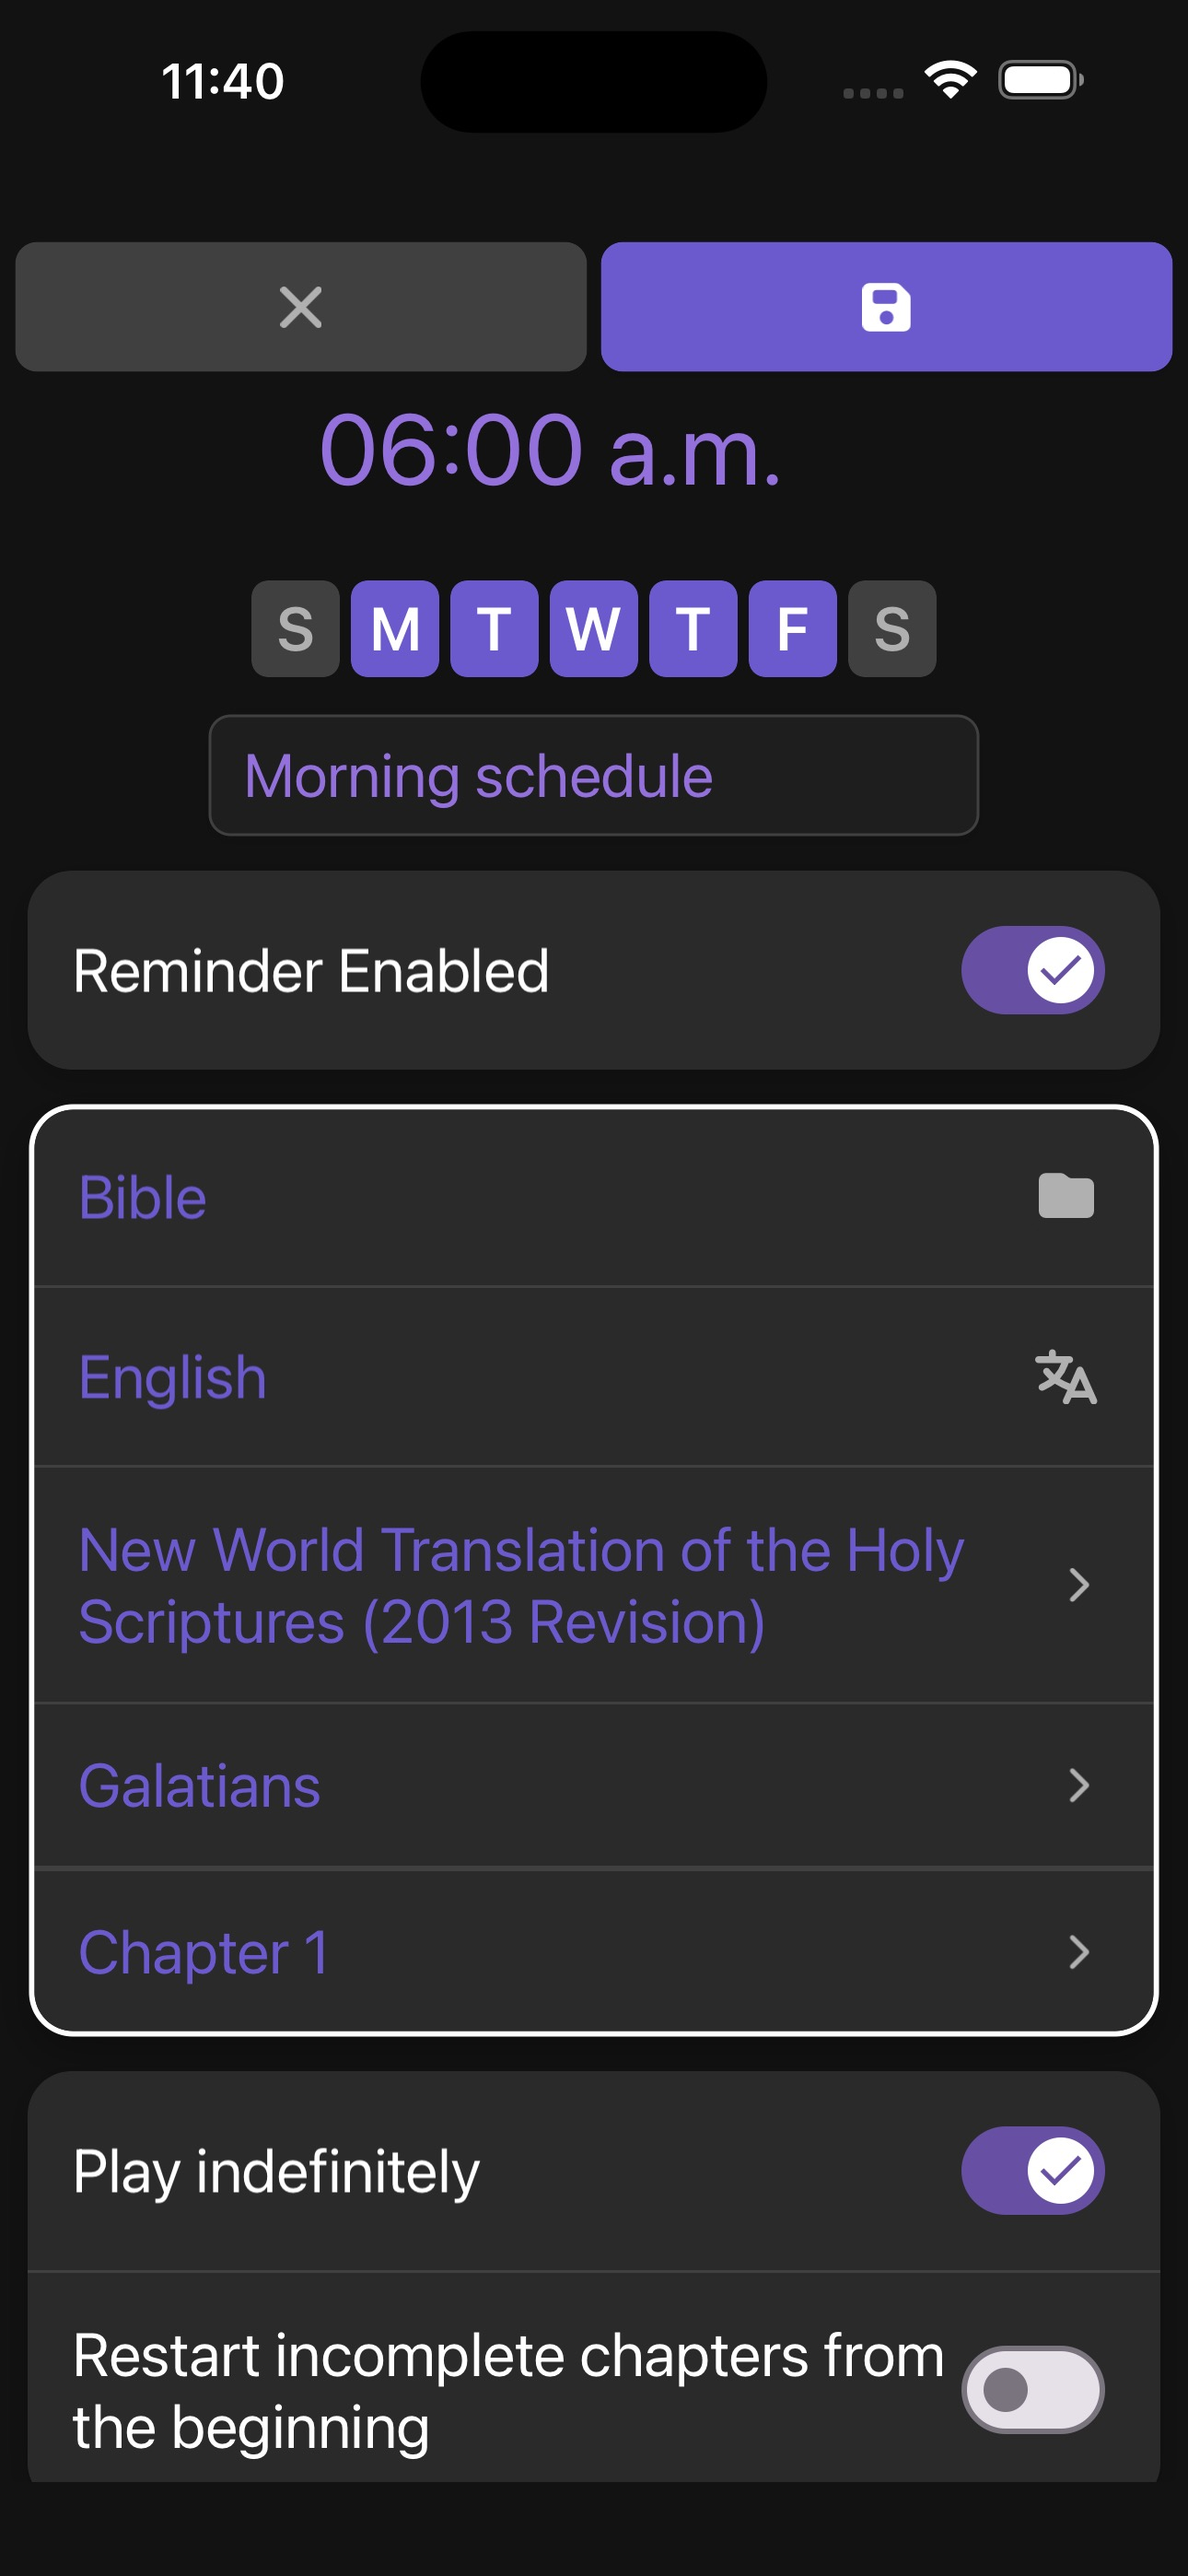
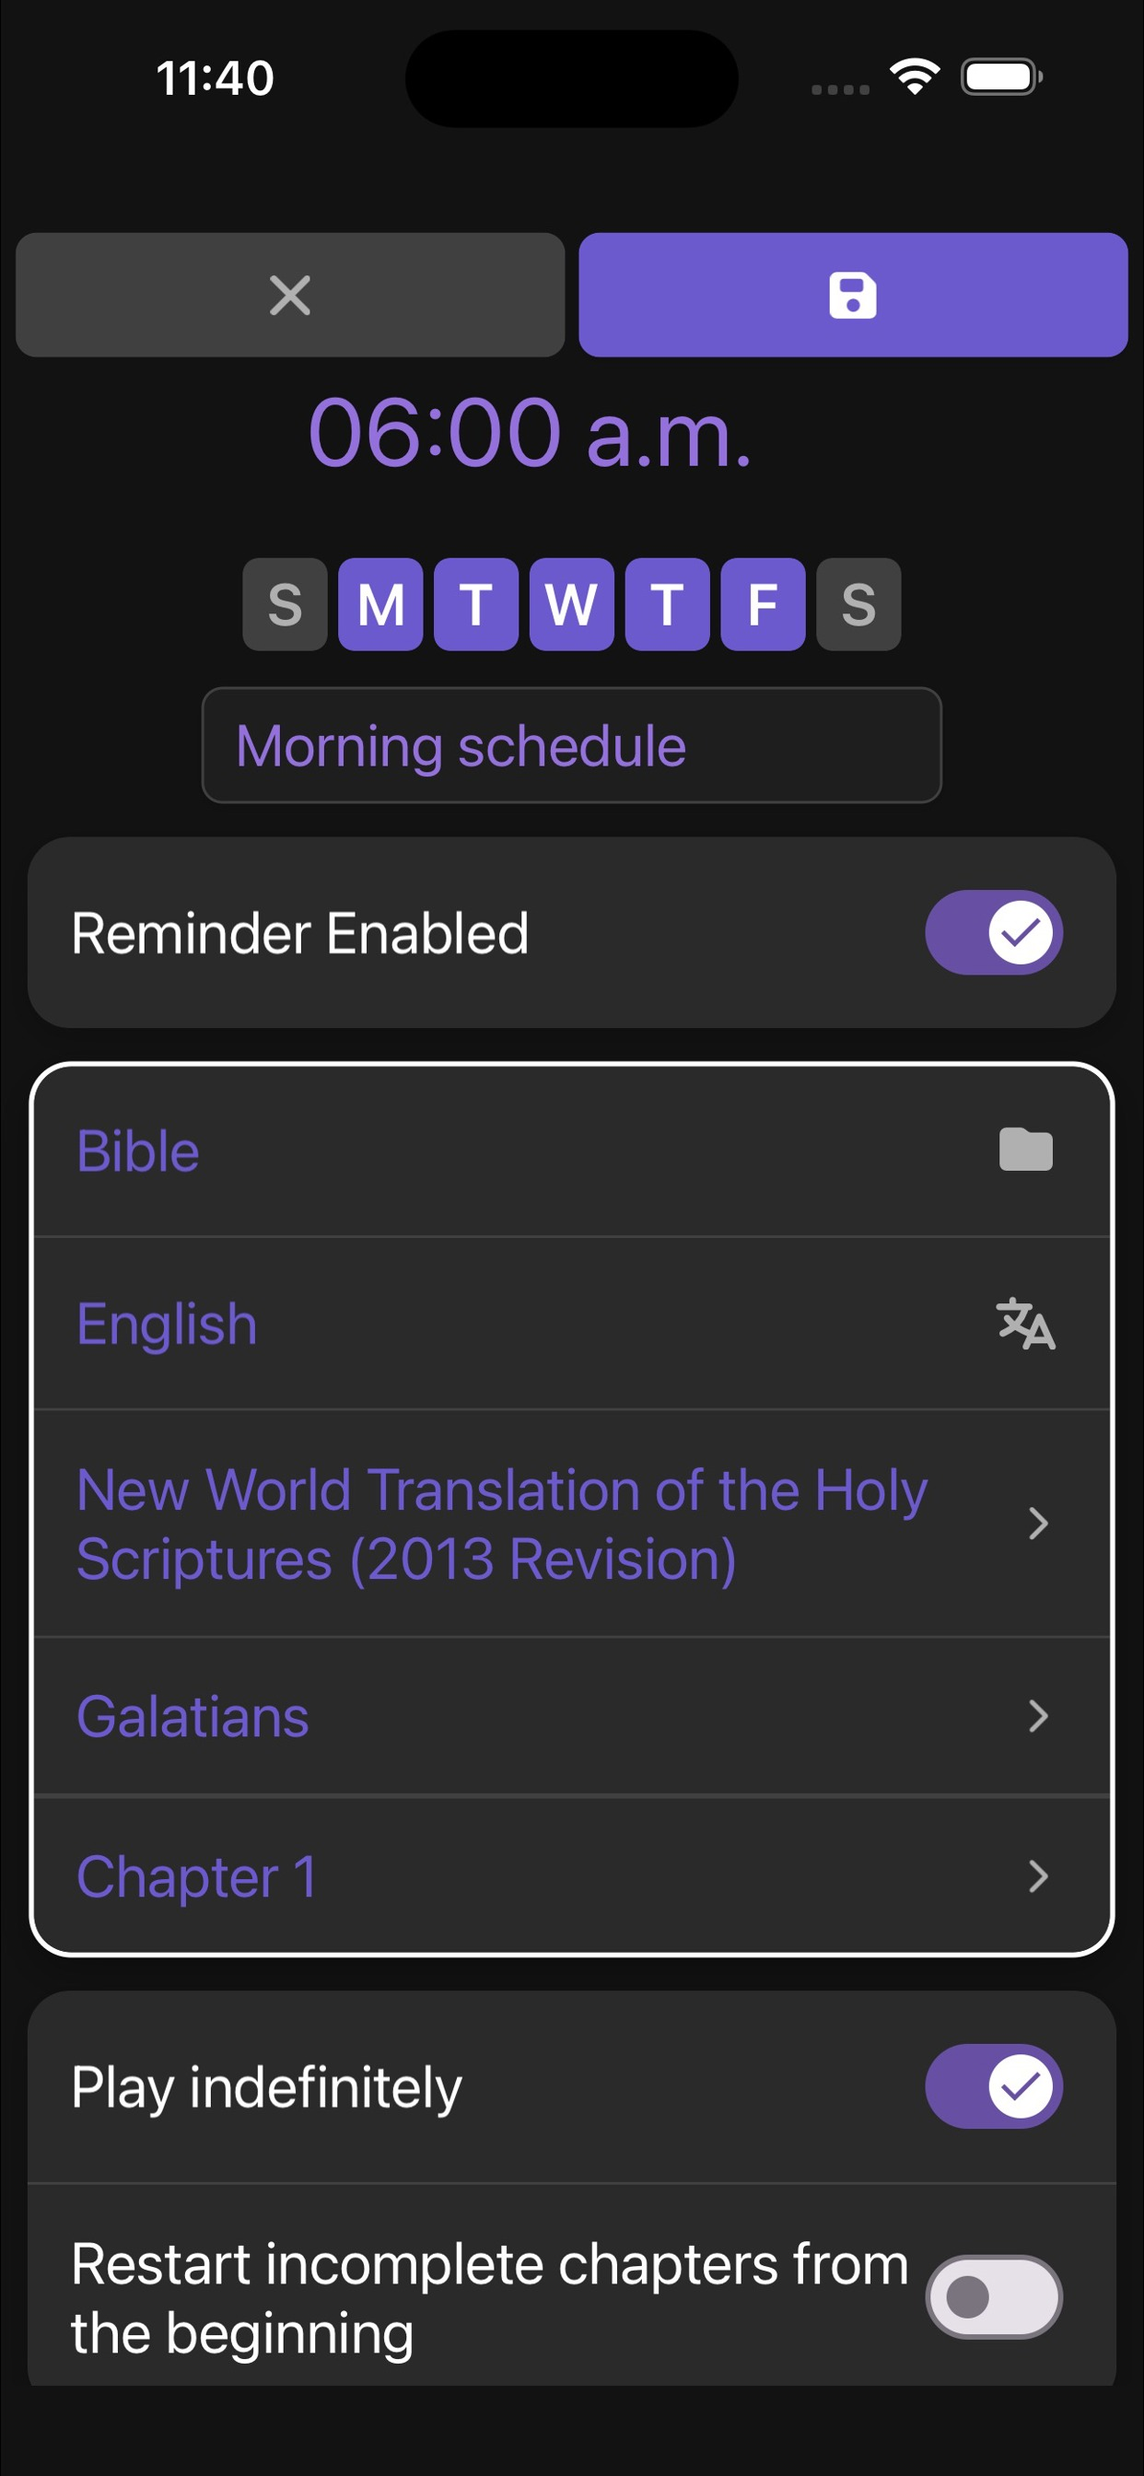
Fix iOS screenshot sizes for store listing

diff --git a/.tools/Bible.Alarm.IosScreenshotResizer/Program.cs b/.tools/Bible.Alarm.IosScreenshotResizer/Program.cs
@@ -1,0 +1,101 @@
+#nullable enable
+
+using System;
+using System.Collections.Generic;
+using System.IO;
+using System.Linq;
+using SixLabors.ImageSharp;
+using SixLabors.ImageSharp.Processing;
+
+namespace Bible.Alarm.IosScreenshotResizer;
+
+/// <summary>
+/// Resizes images under docs/screenshots/iOS to Apple App Store required dimensions.
+/// </summary>
+class Program
+{
+    private static readonly (int W, int H)[] IPhoneSizes =
+    {
+        (1242, 2688), (2688, 1242),
+        (1284, 2778), (2778, 1284),
+    };
+
+    private static readonly (int W, int H)[] IPadSizes =
+    {
+        (2064, 2752), (2752, 2064),
+        (2048, 2732), (2732, 2048),
+    };
+
+    static int Main(string[] args)
+    {
+        var folder = args.Length > 0 ? args[0].Trim() : null;
+        if (string.IsNullOrEmpty(folder) || !Directory.Exists(folder))
+        {
+            Console.Error.WriteLine("Usage: Bible.Alarm.IosScreenshotResizer <path-to-iOS-screenshots-folder>");
+            Console.Error.WriteLine("Example: Bible.Alarm.IosScreenshotResizer \"C:\\Work\\Repositories\\bible-alarm\\docs\\screenshots\\iOS\"");
+            return 1;
+        }
+
+        var extensions = new HashSet<string>(StringComparer.OrdinalIgnoreCase) { ".jpg", ".jpeg", ".png" };
+        var files = Directory.EnumerateFiles(folder, "*.*", SearchOption.AllDirectories)
+            .Where(f => extensions.Contains(Path.GetExtension(f)))
+            .ToList();
+
+        if (files.Count == 0)
+        {
+            Console.WriteLine("No .jpg/.jpeg/.png files found under: " + folder);
+            return 0;
+        }
+
+        Console.WriteLine($"Found {files.Count} image(s). Resizing to closest App Store dimensions...");
+        var ok = 0;
+        foreach (var path in files)
+        {
+            try
+            {
+                ResizeToClosestStoreSize(path, folder);
+                ok++;
+                Console.WriteLine($"  OK: {Path.GetFileName(path)}");
+            }
+            catch (Exception ex)
+            {
+                Console.WriteLine($"  FAIL: {path} - {ex.Message}");
+            }
+        }
+
+        Console.WriteLine($"Done. Processed {ok}/{files.Count} images.");
+        return ok == files.Count ? 0 : 1;
+    }
+
+    static void ResizeToClosestStoreSize(string imagePath, string rootFolder)
+    {
+        var relative = Path.GetRelativePath(rootFolder, imagePath);
+        var useIpad = relative.StartsWith("tablet", StringComparison.OrdinalIgnoreCase);
+        var targets = useIpad ? IPadSizes : IPhoneSizes;
+
+        using var image = Image.Load(imagePath);
+        var (w, h) = (image.Width, image.Height);
+        var aspect = (double)w / h;
+
+        var best = targets[0];
+        var bestDiff = double.MaxValue;
+        foreach (var t in targets)
+        {
+            var targetAspect = (double)t.W / t.H;
+            var diff = Math.Abs(aspect - targetAspect);
+            if (diff < bestDiff)
+            {
+                bestDiff = diff;
+                best = t;
+            }
+        }
+
+        image.Mutate(x => x.Resize(new ResizeOptions
+        {
+            Size = new Size(best.W, best.H),
+            Mode = ResizeMode.Pad,
+        }));
+
+        image.Save(imagePath);
+    }
+}

diff --git a/docs/ios-store-description.md b/docs/ios-store-description.md
@@ -6,16 +6,28 @@ Language list source: media index DB (Bible category). To refresh: `dotnet run -
 
 ---
 
-## Promotional Text (170 characters max)
+## Promotional Text (170 characters max) — *optional*
 
-Appears at the top of the description. You can change it without submitting a new version.
+Appears at the top of the description. You can change it without submitting a new version. **You can leave this blank**; Apple does not require it.
+
+**Recommended (benefit-led):**
+
+```
+Wake up to the Bible—set your alarm, pick your language, and start the day with JW.org audio. CarPlay, 240+ languages, optional music. Free, no ads.
+```
+(128 characters)
+
+```
+Start your day with Bible listening. Set a recurring alarm, stream or download, and play in the car with CarPlay. 240+ languages. Free, no ads.
+```
+(118 characters)
+
+**Shorter options:**
 
 ```
 JW.org Bible & music alarms. CarPlay support. Stream or download. Free, no ads.
 ```
 (68 characters)
-
-Alternative:
 
 ```
 Make your Bible listening an alarm. CarPlay, 240+ languages, optional music. Free, no ads.

diff --git a/docs/windows-store-description.md b/docs/windows-store-description.md
@@ -4,6 +4,18 @@ Use these in **Partner Center** (or the Store submission flow) for the Windows a
 
 ---
 
+## Restricted capability: runFullTrust (approval justification)
+
+When Partner Center asks why the app uses the **runFullTrust** capability, use the text below in the justification field.
+
+**Why do you need the runFullTrust capability, and how will it be used in your product?**
+
+```
+Desktop alarm app (WinUI 3/MAUI). runFullTrust is required for: (1) Local SQLite databases and cached audio files for offline playback—needs full file access. (2) Recurring alarm scheduling and a background task that keeps notifications scheduled and pre-downloads media. (3) Background audio playback when the window is minimized. No sensitive OS access or extra data collection; used only for local storage, scheduling, and playback.
+```
+
+---
+
 ## Short description (270 characters or fewer)
 
 Used at the top of your product's Store listing. Keep it catchy and concise.
